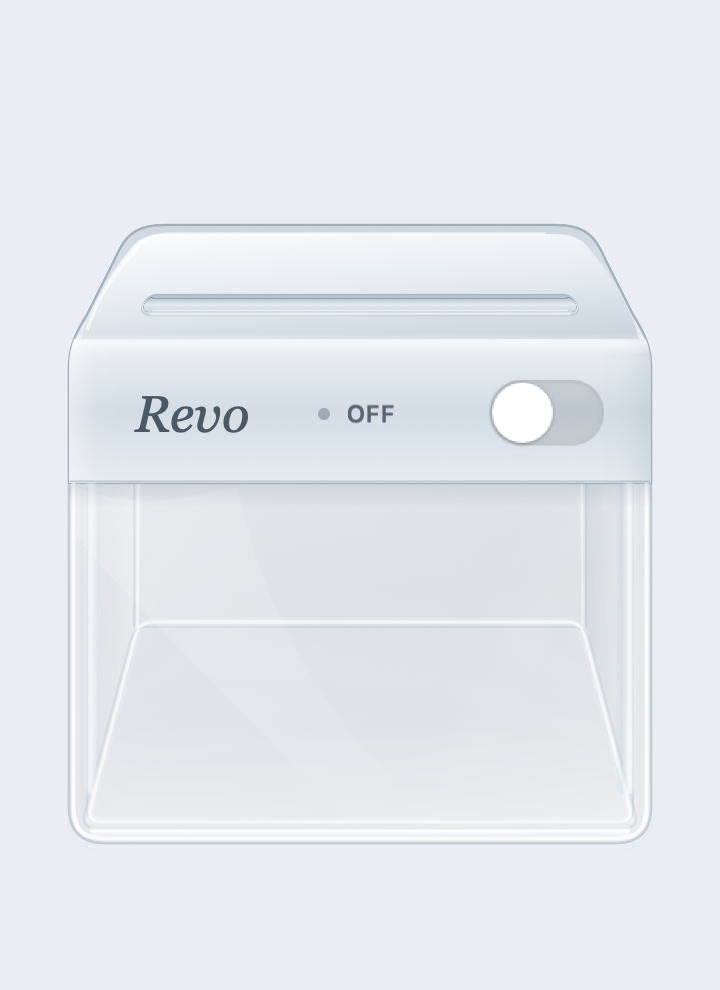
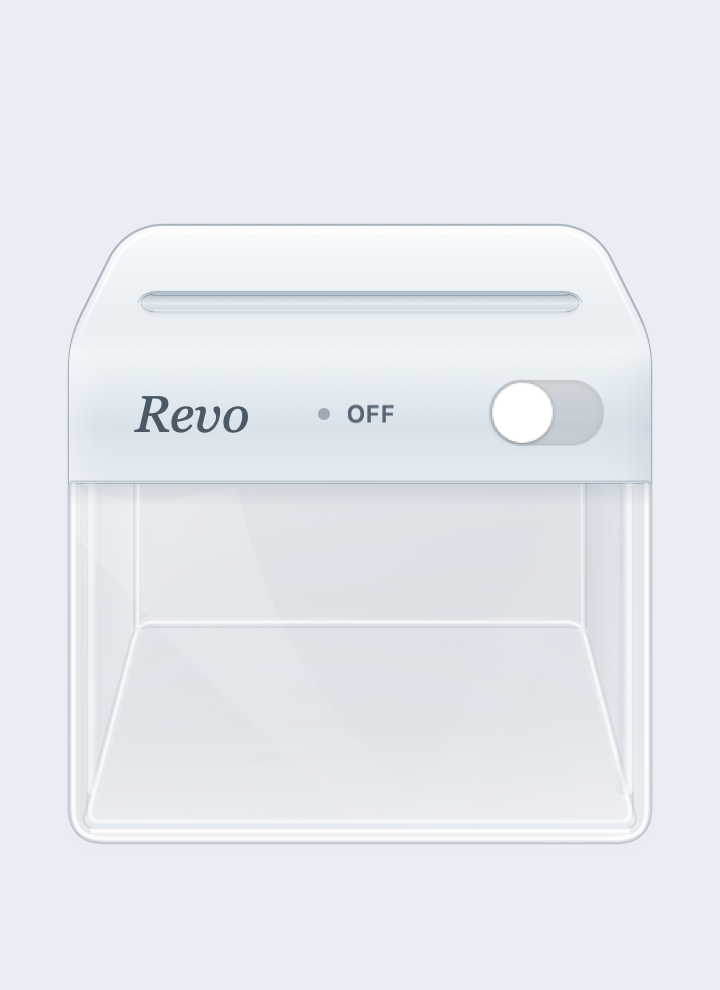
Smooth the metal shoulders and correct the capsule inlet

diff --git a/Sources/Revo/MachineArtwork.swift b/Sources/Revo/MachineArtwork.swift
@@ -11,7 +11,7 @@ enum MachineArtwork {
     static let window = CGRect(x: 43, y: 62, width: 154, height: 107)
     static let shell = CGRect(x: 23, y: 49, width: 194, height: 206)
     static let glassFrame = CGRect(x: 23, y: 49, width: 194, height: 120)
-    static let inlet = CGRect(x: 47, y: slotY - 2, width: 146, height: 5)
+    static let inlet = CGRect(x: 47, y: slotY - 2, width: 146, height: 6)
     static let switchFrame = CGRect(x: 162, y: 180, width: 40, height: 24)
 
     static func color(_ hex: UInt32, _ alpha: CGFloat = 1) -> NSColor {
@@ -55,40 +55,43 @@ enum MachineArtwork {
         stroke(p, hex, alpha, width)
     }
 
-    /// One silhouette keeps the native backdrop inside the sloped glass enclosure.
-    static var outline: CGPath {
+    /// Circular fillets share tangent directions with the lid and upright sides.
+    private static func shoulder(inset: CGFloat = 0) -> CGMutablePath {
         let path = CGMutablePath()
-        path.move(to: CGPoint(x: 56, y: 255))
-        path.addLine(to: CGPoint(x: 184, y: 255))
-        path.addCurve(to: CGPoint(x: 202, y: 243), control1: CGPoint(x: 195, y: 255), control2: CGPoint(x: 198, y: 252))
-        path.addLine(to: CGPoint(x: 211, y: 225))
-        path.addCurve(to: CGPoint(x: 217, y: 207), control1: CGPoint(x: 216, y: 217), control2: CGPoint(x: 217, y: 213))
+        let left = 23 + inset, right = 217 - inset
+        let frontY = 217 + (2 - sqrt(5)) * inset
+        let backY = 255 - inset
+        let backLeft = 42 + (sqrt(5) - 1) * inset / 2
+        let backRight = 240 - backLeft
+        path.move(to: CGPoint(x: left, y: 200))
+        path.addArc(tangent1End: CGPoint(x: left, y: frontY),
+                    tangent2End: CGPoint(x: backLeft, y: backY), radius: 40 - inset)
+        path.addArc(tangent1End: CGPoint(x: backLeft, y: backY),
+                    tangent2End: CGPoint(x: backRight, y: backY), radius: 20 - inset)
+        path.addArc(tangent1End: CGPoint(x: backRight, y: backY),
+                    tangent2End: CGPoint(x: right, y: frontY), radius: 20 - inset)
+        path.addArc(tangent1End: CGPoint(x: right, y: frontY),
+                    tangent2End: CGPoint(x: right, y: 200), radius: 40 - inset)
+        path.addLine(to: CGPoint(x: right, y: 200))
+        return path
+    }
+
+    /// The body and metal head reuse one continuous shoulder contour.
+    static var outline: CGPath {
+        let path = shoulder()
         path.addLine(to: CGPoint(x: 217, y: 61))
         path.addQuadCurve(to: CGPoint(x: 205, y: 49), control: CGPoint(x: 217, y: 49))
         path.addLine(to: CGPoint(x: 35, y: 49))
         path.addQuadCurve(to: CGPoint(x: 23, y: 61), control: CGPoint(x: 23, y: 49))
-        path.addLine(to: CGPoint(x: 23, y: 207))
-        path.addCurve(to: CGPoint(x: 29, y: 225), control1: CGPoint(x: 23, y: 213), control2: CGPoint(x: 24, y: 217))
-        path.addLine(to: CGPoint(x: 38, y: 243))
-        path.addCurve(to: CGPoint(x: 56, y: 255), control1: CGPoint(x: 42, y: 252), control2: CGPoint(x: 45, y: 255))
         path.closeSubpath()
         return path
     }
 
-    /// The head includes its bevels and end caps; every interior pixel is opaque.
+    /// The metal terminates in a straight joint above the glass.
     static var headOutline: CGPath {
-        let path = CGMutablePath()
-        path.move(to: CGPoint(x: 56, y: 255))
-        path.addLine(to: CGPoint(x: 184, y: 255))
-        path.addCurve(to: CGPoint(x: 202, y: 243), control1: CGPoint(x: 195, y: 255), control2: CGPoint(x: 198, y: 252))
-        path.addLine(to: CGPoint(x: 211, y: 225))
-        path.addCurve(to: CGPoint(x: 217, y: 207), control1: CGPoint(x: 216, y: 217), control2: CGPoint(x: 217, y: 213))
+        let path = shoulder()
         path.addLine(to: CGPoint(x: 217, y: 169))
         path.addLine(to: CGPoint(x: 23, y: 169))
-        path.addLine(to: CGPoint(x: 23, y: 207))
-        path.addCurve(to: CGPoint(x: 29, y: 225), control1: CGPoint(x: 23, y: 213), control2: CGPoint(x: 24, y: 217))
-        path.addLine(to: CGPoint(x: 38, y: 243))
-        path.addCurve(to: CGPoint(x: 56, y: 255), control1: CGPoint(x: 42, y: 252), control2: CGPoint(x: 45, y: 255))
         path.closeSubpath()
         return path
     }
@@ -187,41 +190,43 @@ enum MachineArtwork {
 
         drawGlassInterior()
 
-        // Fill the complete head first, including the formerly clear perimeter.
         let head = NSBezierPath(cgPath: headOutline)
-        gradient(head, [(0xC4CED8, 1), (0xE6ECF1, 1), (0xA6B2BF, 1)], -90)
-        stroke(head, 0x8997A5, 0.85, 0.7)
+        gradient(head, [(0xF7F9FB, 1), (0xDCE4EB, 1), (0xC2CDD7, 1)], -90)
+        stroke(head, 0x8997A5, 0.72, 0.65)
 
-        // A softly rolled shoulder joins the receding lid to the front face.
-        let top = NSBezierPath()
-        top.move(to: CGPoint(x: 27, y: 217))
-        top.curve(to: CGPoint(x: 42, y: 245), controlPoint1: CGPoint(x: 29, y: 225), controlPoint2: CGPoint(x: 36, y: 238))
-        top.curve(to: CGPoint(x: 57, y: 252), controlPoint1: CGPoint(x: 46, y: 251), controlPoint2: CGPoint(x: 49, y: 252))
-        top.line(to: CGPoint(x: 183, y: 252))
-        top.curve(to: CGPoint(x: 198, y: 245), controlPoint1: CGPoint(x: 191, y: 252), controlPoint2: CGPoint(x: 194, y: 251))
-        top.curve(to: CGPoint(x: 213, y: 217), controlPoint1: CGPoint(x: 204, y: 238), controlPoint2: CGPoint(x: 211, y: 225))
-        top.close()
-        gradient(top, [(0xF8FAFC, 1), (0xDFE6ED, 1), (0xBCC8D3, 1)], -86)
-        let topHighlight = NSBezierPath()
-        topHighlight.move(to: CGPoint(x: 29, y: 220))
-        topHighlight.curve(to: CGPoint(x: 44, y: 245), controlPoint1: CGPoint(x: 33, y: 232), controlPoint2: CGPoint(x: 39, y: 240))
-        topHighlight.curve(to: CGPoint(x: 58, y: 252), controlPoint1: CGPoint(x: 48, y: 251), controlPoint2: CGPoint(x: 51, y: 252))
-        topHighlight.line(to: CGPoint(x: 182, y: 252))
-        stroke(topHighlight, 0xFFFFFF, 0.67, 1.1)
-
-        // This is the full structural face, with no inset plate or decorative capsule.
-        let face = NSBezierPath()
-        face.move(to: CGPoint(x: 23, y: 217))
-        face.line(to: CGPoint(x: 217, y: 217))
-        face.line(to: CGPoint(x: 217, y: 169))
-        face.line(to: CGPoint(x: 23, y: 169))
-        face.close()
         NSGraphicsContext.saveGraphicsState()
         head.addClip()
-        gradient(face, [(0xE7EDF2, 1), (0xCAD4DE, 1), (0xDFE6ED, 1)], -90)
-        gradient(NSBezierPath(rect: NSRect(x: 23, y: 169, width: 17, height: 48)), [(0xFFFFFF, 0.40), (0xFFFFFF, 0.06), (0xFFFFFF, 0)], 0)
-        gradient(NSBezierPath(rect: NSRect(x: 200, y: 169, width: 17, height: 48)), [(0x718494, 0), (0x718494, 0.04), (0x718494, 0.17)], 0)
-        gradient(NSBezierPath(rect: NSRect(x: 24, y: 212, width: 192, height: 7)), [(0xFFFFFF, 0), (0xFFFFFF, 0.48), (0xFFFFFF, 0)], -90)
+        // The reflection follows the same offset contour, with no independent corner patches.
+        let rim = NSBezierPath(cgPath: shoulder(inset: 2.3))
+        rim.lineWidth = 1.1
+        rim.lineCapStyle = .round
+        let context = NSGraphicsContext.current!.cgContext
+        context.saveGState()
+        context.addPath(rim.cgPath)
+        context.setLineWidth(1.1)
+        context.setLineCap(.round)
+        context.replacePathWithStrokedPath()
+        context.clip()
+        gradient(NSBezierPath(rect: CGRect(x: 23, y: 200, width: 194, height: 55)),
+                 [(0xFFFFFF, 0.74), (0xFFFFFF, 0.45), (0xFFFFFF, 0)], -90)
+        context.restoreGState()
+
+        // A broad rolled highlight blends the top into the front without a hard polygon seam.
+        let face = NSBezierPath(rect: CGRect(x: 23, y: 169, width: 194, height: 55))
+        let faceColors = [color(0xEDF2F6, 0), color(0xEDF2F6, 0.98),
+                          color(0xD1DBE4), color(0xDFE6ED)]
+        NSGradient(colors: faceColors, atLocations: [0, 0.2, 0.65, 1], colorSpace: .deviceRGB)!
+            .draw(in: face, angle: -90)
+        context.saveGState()
+        context.beginTransparencyLayer(auxiliaryInfo: nil)
+        gradient(NSBezierPath(rect: NSRect(x: 23, y: 169, width: 17, height: 48)), [(0xFFFFFF, 0.30), (0xFFFFFF, 0.04), (0xFFFFFF, 0)], 0)
+        gradient(NSBezierPath(rect: NSRect(x: 200, y: 169, width: 17, height: 48)), [(0x718494, 0), (0x718494, 0.03), (0x718494, 0.13)], 0)
+        context.setBlendMode(.destinationIn)
+        NSGradient(colors: [color(0xFFFFFF, 0), color(0xFFFFFF), color(0xFFFFFF)],
+                   atLocations: [0, 0.28, 1], colorSpace: .deviceRGB)!
+            .draw(in: NSBezierPath(rect: CGRect(x: 23, y: 169, width: 194, height: 48)), angle: -90)
+        context.endTransparencyLayer()
+        context.restoreGState()
         line(CGPoint(x: 23.5, y: 169.5), CGPoint(x: 216.5, y: 169.5), color: 0x6F8192, alpha: 0.38, width: 0.7)
         text("Revo", NSPoint(x: 45, y: 182), NSFont(name: "Georgia-Italic", size: 17) ?? .systemFont(ofSize: 17), 0x3B4653)
         NSGraphicsContext.restoreGraphicsState()
@@ -229,24 +234,18 @@ enum MachineArtwork {
         drawInlet()
     }
 
-    /// Project a capsule onto the lid so both end arcs share the metal's perspective.
+    /// A capsule is foreshortened as a single shape, preserving tangent end arcs.
+    /// Applying depth separately to control points would shear the semicircles.
     private static func inletProfile(_ rect: CGRect) -> NSBezierPath {
-        let depth = rect.height / (0.19 * (vanishingPoint.y - rect.minY))
-        func point(_ x: CGFloat, _ v: CGFloat) -> CGPoint {
-            recede(CGPoint(x: x, y: rect.minY), depth: v * depth)
-        }
-        let radius = rect.height / 2
-        let left = rect.minX + radius, right = rect.maxX - radius
-        let k: CGFloat = 0.55228475
-        let path = NSBezierPath()
-        path.move(to: point(left, 0))
-        path.line(to: point(right, 0))
-        path.curve(to: point(rect.maxX, 0.5), controlPoint1: point(right + radius * k, 0), controlPoint2: point(rect.maxX, 0.5 - 0.5 * k))
-        path.curve(to: point(right, 1), controlPoint1: point(rect.maxX, 0.5 + 0.5 * k), controlPoint2: point(right + radius * k, 1))
-        path.line(to: point(left, 1))
-        path.curve(to: point(rect.minX, 0.5), controlPoint1: point(left - radius * k, 1), controlPoint2: point(rect.minX, 0.5 + 0.5 * k))
-        path.curve(to: point(left, 0), controlPoint1: point(rect.minX, 0.5 - 0.5 * k), controlPoint2: point(left - radius * k, 0))
-        path.close()
+        let depthScale: CGFloat = 0.62
+        let plane = CGRect(x: rect.minX, y: 0, width: rect.width,
+                           height: rect.height / depthScale)
+        let path = NSBezierPath(roundedRect: plane, xRadius: plane.height / 2,
+                                yRadius: plane.height / 2)
+        var projection = AffineTransform()
+        projection.translate(x: 0, y: rect.minY)
+        projection.scale(x: 1, y: depthScale)
+        path.transform(using: projection)
         return path
     }
 
@@ -269,9 +268,12 @@ enum MachineArtwork {
         NSGraphicsContext.saveGraphicsState()
         opening.addClip()
         gradient(NSBezierPath(rect: CGRect(x: inlet.minX, y: inlet.maxY - 2.1, width: inlet.width, height: 2.1)), [(0x030A12, 0.90), (0x030A12, 0)], -90)
-        line(CGPoint(x: 51, y: inlet.maxY - 0.35), CGPoint(x: 189, y: inlet.maxY - 0.35), color: 0x020910, alpha: 0.75, width: 0.55)
         NSGraphicsContext.restoreGraphicsState()
-        line(CGPoint(x: 50, y: inlet.minY - 0.65), CGPoint(x: 190, y: inlet.minY - 0.65), color: 0xFFFFFF, alpha: 0.72, width: 0.55)
+        NSGraphicsContext.saveGraphicsState()
+        NSBezierPath(rect: CGRect(x: inlet.minX - 2, y: inlet.minY - 2,
+                                 width: inlet.width + 4, height: inlet.height / 2 + 2)).addClip()
+        stroke(bevel, 0xFFFFFF, 0.65, 0.5)
+        NSGraphicsContext.restoreGraphicsState()
     }
 
     private static func drawGlass() {
